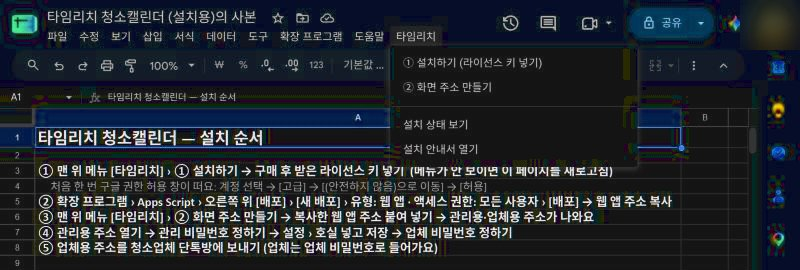
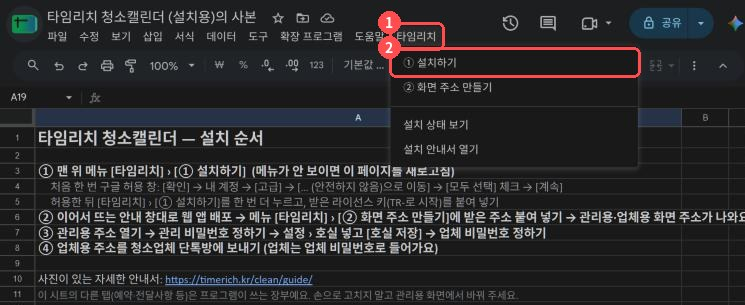
clean/guide: 새 설치 흐름(안내 창 · ② 메뉴에 주소 붙여 넣기)에 맞춰 다시 씀, 모든 사진에 누를 곳 표시, 경고 화면 추가, 계정·주소는 예시 글자로
Claude-Session: https://claude.ai/code/session_014H2ZGGZ6siFYbtQw8d3tvV

diff --git a/clean/guide/index.html b/clean/guide/index.html
@@ -3,26 +3,27 @@
 <meta name="color-scheme" content="dark"><title>청소캘린더 설치 안내서 · TimeRich</title>
 <style>
 :root{--bg:#0f1420;--pp:#171d2b;--tx:#e8ebf1;--sub:#9aa3b2;--ac:#ffad4d;--ln:#262e40}
-*{box-sizing:border-box}body{margin:0;background:var(--bg);color:var(--tx);font:16px/1.7 -apple-system,BlinkMacSystemFont,'Apple SD Gothic Neo','Noto Sans KR','Malgun Gothic',sans-serif;word-break:keep-all}
+*{box-sizing:border-box}body{margin:0;background:var(--bg);color:var(--tx);font:16px/1.75 -apple-system,BlinkMacSystemFont,'Apple SD Gothic Neo','Noto Sans KR','Malgun Gothic',sans-serif;word-break:keep-all}
 header{padding:28px 20px 8px;max-width:820px;margin:0 auto}.logo{font-weight:800;letter-spacing:-.5px}.logo span{color:var(--ac)}
 h1{font-size:1.6rem;margin:.6rem 0 .2rem}.lead{color:var(--sub);margin:0}
 main{max-width:820px;margin:0 auto;padding:8px 20px 60px}
 section{background:var(--pp);border:1px solid var(--ln);border-radius:14px;padding:18px 20px;margin:16px 0}
-h2{font-size:1.15rem;margin:0 0 .4rem;color:var(--ac)}p{margin:.4rem 0}ul{margin:.4rem 0;padding-left:1.2rem}
-.note{color:var(--sub);font-size:.93rem}figure{margin:12px 0 0}img{max-width:100%;height:auto;border-radius:10px;border:1px solid var(--ln);display:block}
+h2{font-size:1.15rem;margin:0 0 .4rem;color:var(--ac)}p{margin:.55rem 0}ul{margin:.4rem 0;padding-left:1.2rem}
+.k{display:inline-block;border:1px solid #3a4560;background:#222a3b;border-radius:5px;padding:0 7px;margin:0 1px;font-weight:700;font-size:.95em;line-height:1.55}
+.r{color:#ff6b6d}.note{color:var(--sub);font-size:.93rem}figure{margin:10px 0 14px}img{max-width:100%;height:auto;border-radius:10px;border:1px solid var(--ln);display:block}
 footer{color:var(--sub);text-align:center;font-size:.85rem;padding:0 20px 40px}
 </style></head><body>
 <header><div class="logo">Time<span>Rich</span> · 타임리치</div><h1>청소캘린더 설치 안내서</h1><p class="lead">PC에서 10분 정도면 끝나요. 막히는 곳이 있으면 크몽 메시지로 물어봐 주세요.</p></header>
 <main>
-<section><h2>준비물</h2><ul><li>구글 계정 하나 — <b>숙소 예약 알림 메일을 받는 지메일 계정</b>이면 가장 좋아요(예약 메일을 자동으로 읽어 캘린더에 넣어요)</li><li>구매 후 받은 <b>설치용 시트 링크</b>와 <b>라이선스 키</b>(TR-로 시작)</li><li>설치는 PC에서 10분 정도 걸려요. 다 되면 사장님·청소업체 모두 폰으로 써요</li></ul></section>
-<section><h2>1. 설치용 시트 사본 만들기</h2><p>받은 링크를 열고 <b>[사본 만들기]</b>를 누르세요. 내 구글 드라이브에 내 시트가 생겨요(이 시트가 예약 장부예요).</p><figure><img src="img/copy.jpg" width="560" height="280" alt="사본 만들기 화면" loading="lazy"></figure></section>
-<section><h2>2. 메뉴 [타임리치] › ① 설치하기</h2><p>새로 생긴 시트 맨 위 메뉴에 <b>타임리치</b>가 생겨요(안 보이면 새로고침). <b>① 설치하기</b>를 누르세요.</p><figure><img src="img/menu.jpg" width="800" height="270" alt="타임리치 메뉴" loading="lazy"></figure></section>
-<section><h2>3. 구글 권한 허용 (처음 한 번)</h2><p>‘승인 필요’ 창에서 <b>[확인]</b> → 내 계정 고르기 → <b>‘Google에서 확인하지 않은 앱’</b> 화면이 나오면 왼쪽 아래 <b>[고급]</b> → <b>[타임리치 청소캘린더(으)로 이동(안전하지 않음)]</b> → <b>[허용]</b>.</p><p class="note">이 화면은 ‘내 시트에 붙은 내 프로그램’이라 구글 심사를 거치지 않아서 나오는 표준 안내예요. 허용하는 권한은 이 시트 읽기·쓰기, 지메일 <b>읽기 전용</b>(예약 메일 읽기 — 설정에서 켤 때만), 타임리치 서버 연결(라이선스 확인), 10분 자동 실행이에요. 메일을 보내거나 지우는 권한은 없어요.</p><figure><img src="img/auth.jpg" width="352" height="144" alt="승인 필요 창" loading="lazy"></figure></section>
-<section><h2>4. 라이선스 키 넣기</h2><p>허용 뒤 다시 <b>타임리치 › ① 설치하기</b>를 누르고 받은 키를 붙여 넣으세요. ‘① 설치 완료’가 나오면 끝이에요. 키는 처음 설치한 시트 하나에만 쓸 수 있어요.</p><figure><img src="img/key.jpg" width="228" height="209" alt="라이선스 키 입력" loading="lazy"></figure><figure><img src="img/done.jpg" width="380" height="250" alt="설치 완료" loading="lazy"></figure></section>
-<section><h2>5. 웹 앱 배포 (한 번만)</h2><p>시트 메뉴 <b>확장 프로그램 › Apps Script</b> → 오른쪽 위 <b>[배포] › [새 배포]</b> → 유형 <b>웹 앱</b>, 실행 <b>나</b>, 액세스 권한 <b>모든 사용자</b> → <b>[배포]</b> → 나온 <b>웹 앱 URL(…/exec)</b>을 복사하세요.</p><p class="note">‘모든 사용자’로 해야 청소업체 폰에서 열려요. 화면은 업체 비밀번호로 잠겨 있어요.</p><figure><img src="img/ext.jpg" width="530" height="200" alt="Apps Script 열기" loading="lazy"></figure><figure><img src="img/deploy1.jpg" width="400" height="160" alt="새 배포" loading="lazy"></figure><figure><img src="img/deploy2.jpg" width="590" height="470" alt="웹 앱 설정" loading="lazy"></figure><figure><img src="img/deploy3.jpg" width="590" height="470" alt="배포 완료 주소" loading="lazy"></figure></section>
-<section><h2>6. 메뉴 [타임리치] › ② 화면 주소 만들기</h2><p>복사한 웹 앱 주소를 붙여 넣으면 <b>관리용</b>·<b>업체용</b> 화면 주소가 나와요. 관리용은 사장님 폰 홈 화면에 추가해 두면 편해요.</p><figure><img src="img/links.jpg" width="466" height="395" alt="화면 주소" loading="lazy"></figure></section>
-<section><h2>7. 관리용 화면: 비밀번호 → 호실</h2><p>관리용 주소를 열고 <b>관리 비밀번호</b>를 정하세요. 바로 <b>설정 › 호실</b>이 열려요. 호실 이름·색·문 비밀번호·청소비·수건 규칙·플랫폼 숙소 번호를 넣고 <b>[호실 저장]</b>.</p><p class="note">숙소 번호 찾는 곳 — 아고다: YCS 맨 위 ‘숙소 ID’ / 부킹닷컴: 엑스트라넷 맨 위 숙소 이름 옆 숫자 / 에어비앤비: 숙소 주소의 rooms/ 뒤 숫자. 한 번호에 방이 여러 개면 그 방들에 같은 번호를 넣으세요(그 예약은 ‘할 일’에서 방만 고르면 돼요).</p><figure><img src="img/admin_pw.jpg" width="300" height="260" alt="관리 비밀번호" loading="lazy"></figure><figure><img src="img/rooms.jpg" width="480" height="828" alt="호실 설정" loading="lazy"></figure><p>저장하면 <b>캘린더</b>에 호실 칸이 생기고, 예약이 들어오면 청소 날짜·박수·인원이 표시돼요.</p><figure><img src="img/calendar.jpg" width="420" height="797" alt="캘린더" loading="lazy"></figure></section>
+<section><h2>준비물</h2><ul><li>구글 계정 하나 — <b>숙소 예약 알림 메일을 받는 지메일 계정</b>이면 가장 좋아요(예약 메일을 자동으로 읽어 캘린더에 넣어요)</li><li>구매 후 받은 <b>설치용 시트 링크</b>와 <b>라이선스 키</b>(TR-로 시작)</li><li>설치는 <b>PC</b>에서 10분 정도 걸려요. 다 되면 사장님·청소업체 모두 폰으로 써요</li><li>사진 속 <b class="r">빨간 테두리</b>가 누를 곳이에요. 번호가 있으면 그 순서대로 눌러 주세요</li></ul></section>
+<section><h2>1. 설치용 시트 사본 만들기</h2><p>받은 링크를 열고 <span class="k">사본 만들기</span>를 누르세요. 내 구글 드라이브에 내 시트가 생겨요(이 시트가 예약 장부예요).</p><figure><img src="img/copy.jpg" width="560" height="280" alt="사본 만들기" loading="lazy"></figure></section>
+<section><h2>2. 메뉴 [타임리치] › [① 설치하기]</h2><p>새로 생긴 시트 맨 위 메뉴에 <span class="k">타임리치</span>가 생겨요. 눌러서 <span class="k">① 설치하기</span>를 누르세요.</p><p class="note">메뉴가 안 보이면 10초쯤 기다리거나 페이지를 새로고침해 주세요.</p><figure><img src="img/menu.jpg" width="745" height="305" alt="타임리치 메뉴" loading="lazy"></figure></section>
+<section><h2>3. 구글 허용 (처음 한 번만)</h2><p>① ‘승인 필요’ 창에서 <span class="k">확인</span> → 내 계정을 고르세요.</p><figure><img src="img/auth.jpg" width="370" height="162" alt="승인 필요 창" loading="lazy"></figure><p>② ‘Google에서 확인하지 않은 앱’ 화면이 나오면 왼쪽 아래 <span class="k">고급</span> → 맨 아래 <span class="k">타임리치 청소캘린더(으)로 이동(안전하지 않음)</span>을 누르세요.</p><figure><img src="img/warn.jpg" width="500" height="250" alt="확인하지 않은 앱 화면" loading="lazy"></figure><p>③ 권한 목록 화면에서 맨 위 <span class="k">모두 선택</span>을 꼭 체크하고 <span class="k">계속</span>. <b class="r">체크가 하나라도 빠지면 허용 창이 다시 떠요.</b></p><p class="note">이 경고는 ‘내 시트에 붙은 내 프로그램’이라 구글 심사를 거치지 않아서 나오는 표준 안내예요. 허용하는 권한은 이 시트 읽기·쓰기, 지메일 <b>읽기 전용</b>(예약 메일 읽기 — 설정에서 켤 때만), 타임리치 서버 연결(라이선스 확인), 10분 자동 실행이에요. 메일을 보내거나 지우는 권한은 없어요.<br>허용 뒤 ‘오류 발생 — 새로고침’ 창이 뜨면 새로고침하면 돼요.</p></section>
+<section><h2>4. 라이선스 키 넣기</h2><p>허용이 끝나면 <span class="k">타임리치</span> › <span class="k">① 설치하기</span>를 <b>한 번 더</b> 누르고, 받은 키를 붙여 넣은 뒤 <span class="k">확인</span>.</p><figure><img src="img/key.jpg" width="228" height="209" alt="라이선스 키 입력" loading="lazy"></figure><p>20초쯤 지나면 시트 아래에 장부 탭들(예약·전달사항 등)이 생기고, ‘마지막 단계’ 안내 창이 떠요. 이 창은 그대로 두고 5번으로 가세요.</p><figure><img src="img/guidedlg.jpg" width="500" height="247" alt="마지막 단계 안내 창" loading="lazy"></figure><p class="note">키는 처음 설치한 시트 하나에만 쓸 수 있어요.</p></section>
+<section><h2>5. 웹 앱 배포 (한 번만)</h2><p>① 시트 맨 위 메뉴 <span class="k">확장 프로그램</span> › <span class="k">Apps Script</span> — 새 탭이 열려요.</p><figure><img src="img/ext.jpg" width="560" height="200" alt="Apps Script 열기" loading="lazy"></figure><p>② 오른쪽 위 파란 <span class="k">배포</span> › <span class="k">새 배포</span>.</p><figure><img src="img/deploymenu.jpg" width="360" height="165" alt="새 배포" loading="lazy"></figure><p>③ 보통 이미 <b>‘웹 앱’</b>, 액세스 권한 <b>‘모든 사용자’</b>로 돼 있어요. 확인만 하고 <span class="k">배포</span>.</p><figure><img src="img/deploy.jpg" width="590" height="470" alt="웹 앱 · 모든 사용자 · 배포" loading="lazy"></figure><p class="note">다르게 돼 있으면: ‘유형 선택’ 옆 톱니바퀴 › 웹 앱, ‘액세스 권한이 있는 사용자’ › 모든 사용자. ‘모든 사용자’로 해야 청소업체 폰에서 열려요(화면은 비밀번호로 잠겨 있어요). 권한을 물으면 <span class="k">액세스 승인</span> → 허용.</p><p>④ 나온 ‘웹 앱 URL’ 아래 <span class="k">복사</span> → <span class="k">완료</span>. 이 탭은 닫아도 돼요.</p><figure><img src="img/deployed.jpg" width="590" height="470" alt="웹 앱 URL 복사" loading="lazy"></figure></section>
+<section><h2>6. 메뉴 [타임리치] › [② 화면 주소 만들기]</h2><p>시트로 돌아와 <span class="k">타임리치</span> › <span class="k">② 화면 주소 만들기</span> → 복사한 주소를 붙여 넣고 <span class="k">확인</span>.</p><figure><img src="img/paste.jpg" width="356" height="255" alt="주소 붙여 넣기" loading="lazy"></figure><p><b>관리용</b>·<b>업체용</b> 화면 주소가 나오면 설치 끝이에요. 관리용은 사장님 폰 홈 화면에 추가해 두면 편해요.</p><figure><img src="img/links.jpg" width="504" height="345" alt="화면 주소" loading="lazy"></figure></section>
+<section><h2>7. 관리용 화면: 비밀번호 → 호실</h2><p>관리용 주소를 열고 <b>관리 비밀번호</b>를 정하세요. 바로 <b>설정 › 호실</b>이 열려요. 호실 이름·색·문 비밀번호·청소비·수건 규칙·플랫폼 숙소 번호를 넣고 <span class="k">호실 저장</span>.</p><figure><img src="img/admin_pw.jpg" width="300" height="260" alt="관리 비밀번호" loading="lazy"></figure><figure><img src="img/rooms.jpg" width="480" height="828" alt="호실 설정" loading="lazy"></figure><p class="note">숙소 번호 찾는 곳 — 아고다: YCS 맨 위 ‘숙소 ID’ / 부킹닷컴: 엑스트라넷 맨 위 숙소 이름 옆 숫자 / 에어비앤비: 숙소 주소의 rooms/ 뒤 숫자. 한 번호에 방이 여러 개면 그 방들에 같은 번호를 넣으세요(그 예약은 ‘할 일’에서 방만 고르면 돼요).</p><p>저장하면 <b>캘린더</b>에 호실 칸이 생기고, 예약이 들어오면 청소 날짜·박수·인원이 표시돼요.</p><figure><img src="img/calendar.jpg" width="420" height="797" alt="캘린더" loading="lazy"></figure></section>
 <section><h2>8. 업체 비밀번호 → 단톡방에 업체용 주소</h2><p>설정에서 <b>업체 비밀번호</b>(숫자 4자리 이상)를 정하고, <b>업체용 주소</b>를 청소업체 단톡방에 보내 주세요. 업체는 오늘·내일 청소, 캘린더, 추가 일정을 보고 ‘청소 완료’를 눌러요.</p><figure><img src="img/vendor.jpg" width="420" height="908" alt="업체용 화면" loading="lazy"></figure></section>
-<section><h2>9. 예약 메일 자동 읽기 켜기</h2><p>설정 › <b>예약 메일 자동 읽기</b>를 켜면 아고다·부킹닷컴·에어비앤비 예약·취소 메일을 10분마다 읽어 캘린더에 넣어요. <b>[메일 읽기 점검]</b>으로 최근 4일 메일이 어떻게 읽히는지 먼저 볼 수 있어요(장부에는 안 써요). ‘못 읽음’이면 이유가 같이 나와요 — 예: 설정에 없는 숙소 번호면 호실에 그 번호를 넣어 주세요.</p><ul><li>플랫폼 알림 메일 언어는 <b>한국어</b>로 해 주세요</li><li>예약 메일이 다른 계정으로 오면 지메일 ‘전달’로 이 계정에 넘겨 주세요</li><li>부킹닷컴 새 예약은 메일에 체크아웃·인원이 없어서 ‘할 일’에 뜨면 채워 주세요</li></ul><figure><img src="img/mail.jpg" width="480" height="263" alt="메일 자동 읽기" loading="lazy"></figure></section>
-<section><h2>자주 묻는 것</h2><ul><li><b>업데이트</b>: 새 판이 나오면 3시간 안에 자동으로 바뀌어요. 따로 할 일 없어요</li><li><b>시트에서 직접 고쳐도 되나요?</b> 예약·전달사항은 관리용 화면에서 바꿔 주세요(시트를 손으로 고치면 10분 안에 반영되지만 형식이 틀리면 빠질 수 있어요)</li><li><b>호실 수</b>: 구매한 상품만큼(4·8·12곳) 넣을 수 있어요</li><li><b>문의</b>: 크몽 메시지로 주세요</li></ul></section>
+<section><h2>9. 예약 메일 자동 읽기 켜기</h2><p>설정 › <b>예약 메일 자동 읽기</b>를 켜면 아고다·부킹닷컴·에어비앤비 예약·취소 메일을 10분마다 읽어 캘린더에 넣어요. <span class="k">메일 읽기 점검</span>으로 최근 4일 메일이 어떻게 읽히는지 먼저 볼 수 있어요(장부에는 안 써요). ‘못 읽음’이면 이유가 같이 나와요 — 예: 설정에 없는 숙소 번호면 호실에 그 번호를 넣어 주세요.</p><ul><li>플랫폼 알림 메일 언어는 <b>한국어</b>로 해 주세요</li><li>예약 메일이 다른 계정으로 오면 지메일 ‘전달’로 이 계정에 넘겨 주세요</li><li>부킹닷컴 새 예약은 메일에 체크아웃·인원이 없어서 ‘할 일’에 뜨면 채워 주세요</li></ul><figure><img src="img/mail.jpg" width="480" height="263" alt="메일 자동 읽기" loading="lazy"></figure></section>
+<section><h2>자주 묻는 것</h2><ul><li><b>업데이트</b>: 새 판이 나오면 3시간 안에 자동으로 바뀌어요. 따로 할 일 없어요</li><li><b>화면 주소를 잃어버렸어요</b>: 시트 메뉴 타임리치 › ② 화면 주소 만들기, 또는 관리 화면 › 설정에서 다시 볼 수 있어요</li><li><b>설치가 잘 됐는지</b>: 시트 메뉴 타임리치 › 설치 상태 보기</li><li><b>시트에서 직접 고쳐도 되나요?</b> 예약·전달사항은 관리용 화면에서 바꿔 주세요(시트를 손으로 고치면 형식이 틀려 빠질 수 있어요)</li><li><b>호실 수</b>: 구매한 상품만큼(4·8·12곳) 넣을 수 있어요</li><li><b>문의</b>: 크몽 메시지로 주세요</li></ul></section>
 </main><footer>© TimeRich 타임리치</footer></body></html>
